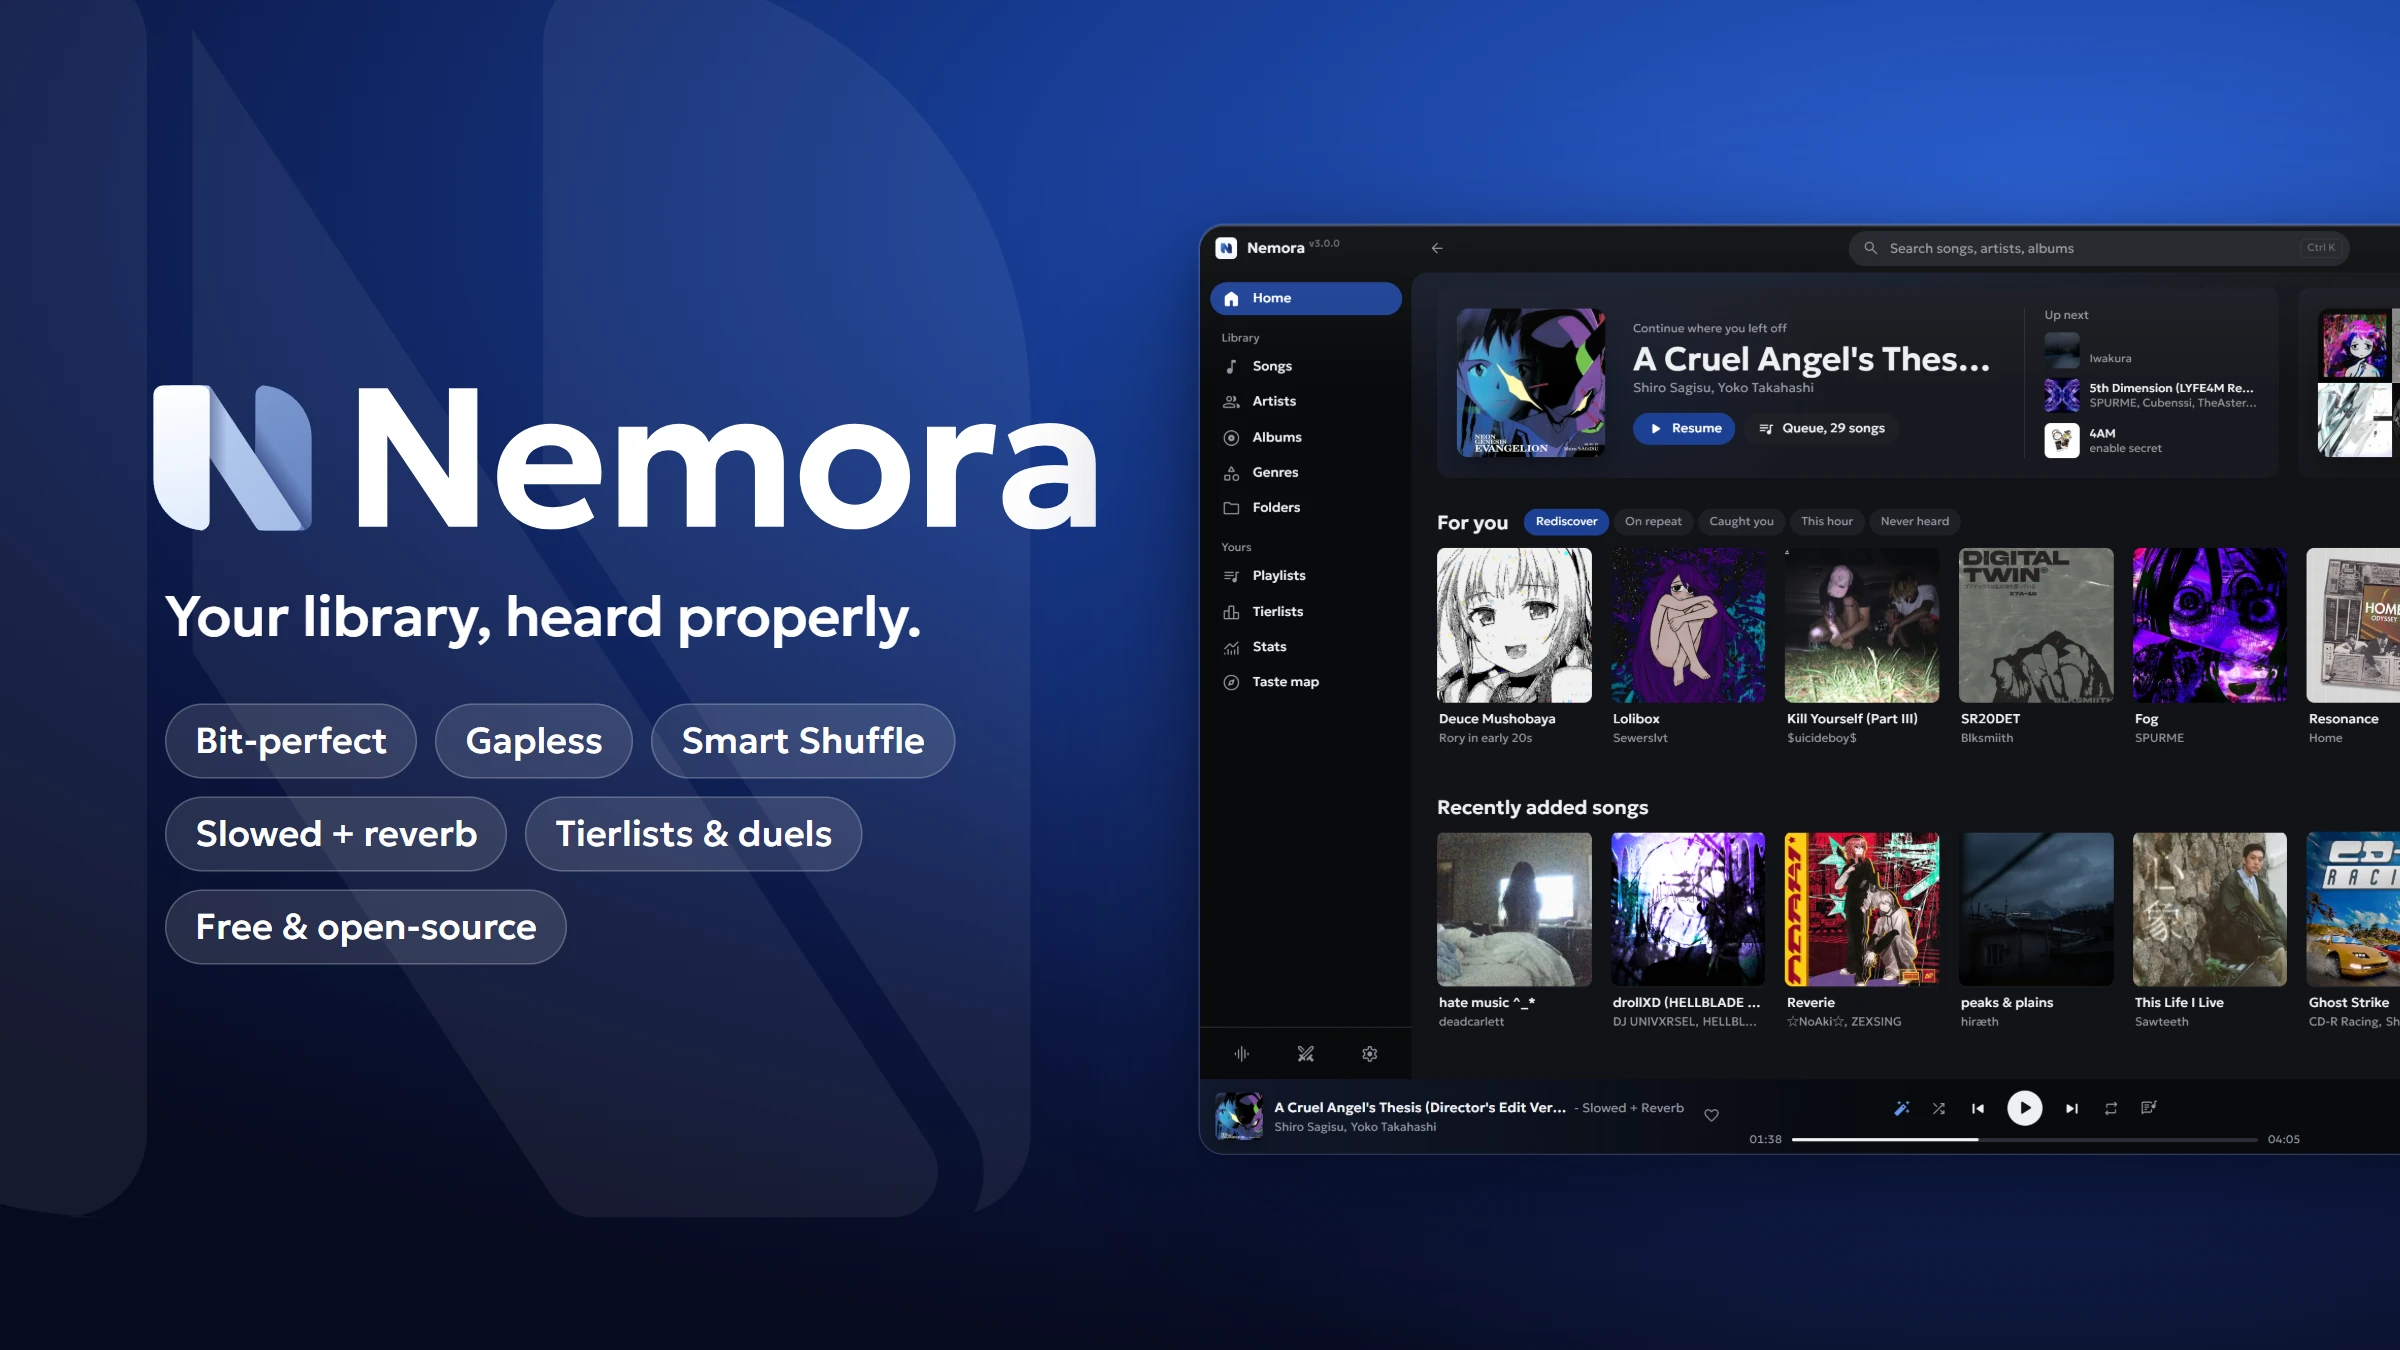
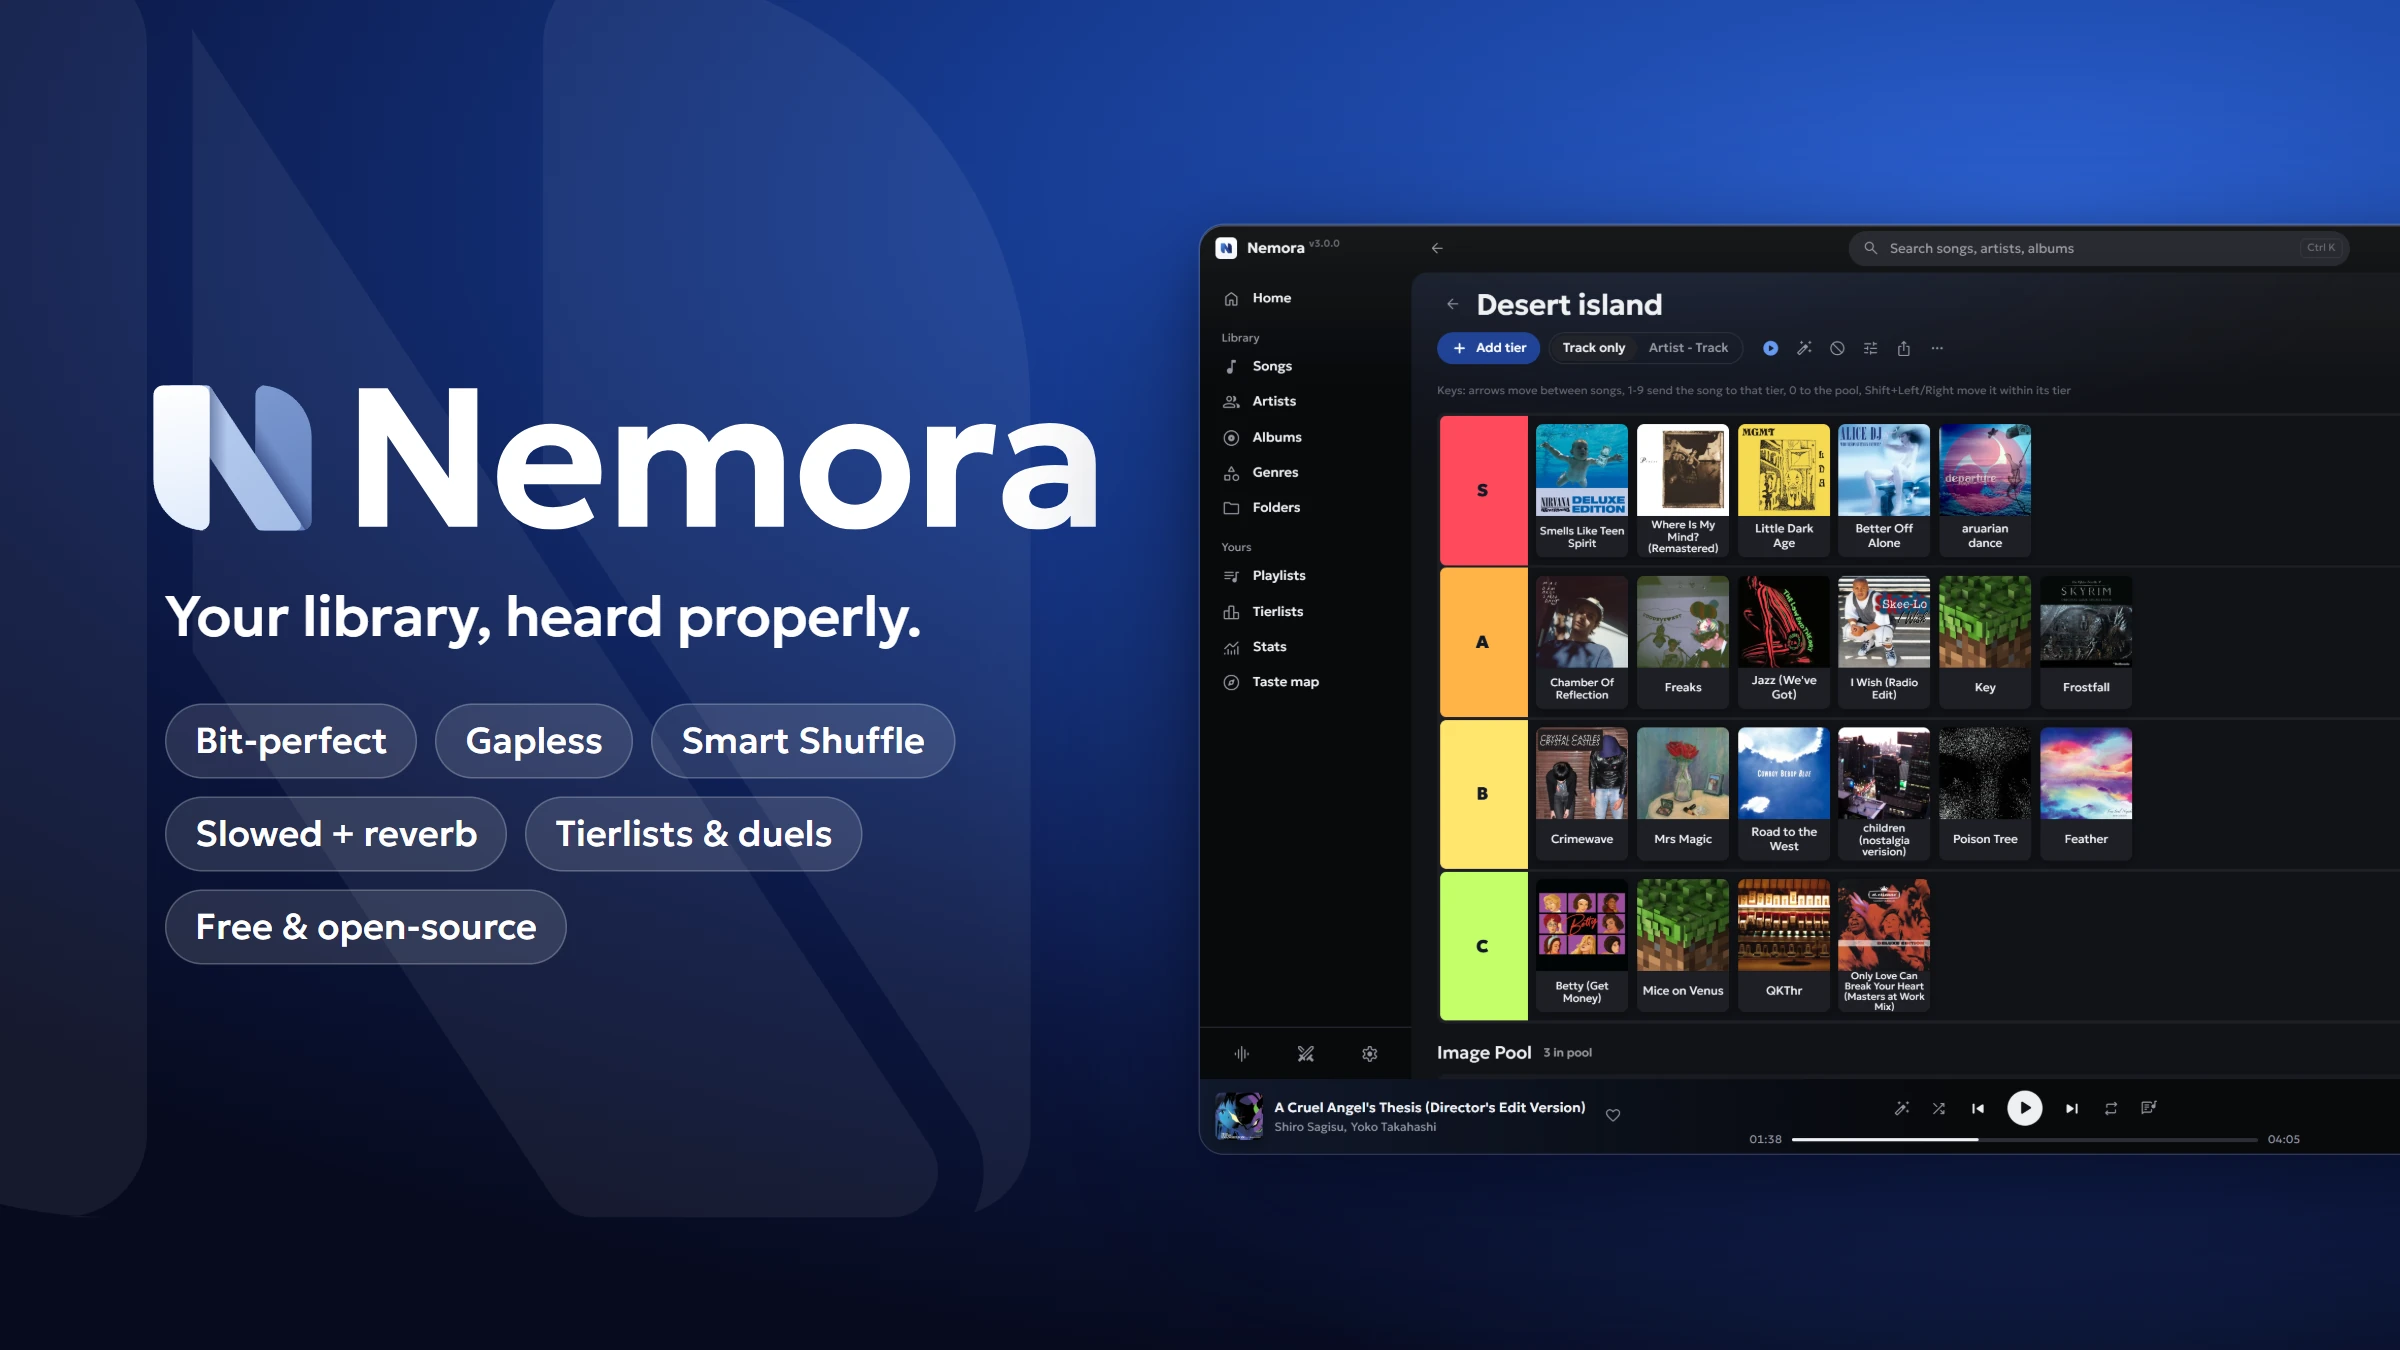
README pictures without songs the README should not show: the stand has README shots (r-*) of the real app with a sample tierlist of well-known songs (Desert island), a duel of two of them, an English search with a typo, and the Slowed & reverb panel over that tierlist; the hero and the cards use th

Changed region(s): [[0.5, 0.1867, 1.0, 0.8089], [0.9688, 0.2178, 1.0, 0.3422], [0.6562, 0.8089, 0.6875, 0.84]]

diff --git a/tools/readme/compose.py b/tools/readme/compose.py
@@ -35,11 +35,11 @@ CARDS = [
          title="Smart Shuffle<br>that explains itself",
          text="It leans toward what you rate and how you listen, shows why each song comes next, and lets you steer it for the session."),
     dict(key="tierlists", bg="dawn", side="right",
-         shots=[("31-tierlist-editor", "dark", None, (60, 190, 840))],
+         shots=[("r-tierlist", "light", None, (60, 190, 840))],
          title="Rank your music<br>in tierlists",
          text="Drag songs into tiers, play a tierlist like a playlist, export it as an image. Your tiers feed Smart Shuffle."),
     dict(key="duels", bg="deep", side="left",
-         shots=[("34-duel", "dark", (421, 122, 1179, 778), (760, 120, 600)), ("33-songguessr", "dark", (543, 86, 1057, 814), (1150, 250, 380))],
+         shots=[("r-duel", "dark", (421, 122, 1179, 778), (760, 120, 600)), ("33-songguessr", "dark", (543, 86, 1057, 814), (1150, 250, 380))],
          title="Duels and<br>Song Guessr",
          text="A little bit of fun with your own library. Pick the better of two songs and an ELO rating sorts it by what you really choose. Or name a track from a tenth of a second."),
     dict(key="stats", bg="sky", side="right",
@@ -51,11 +51,11 @@ CARDS = [
          title="Your taste,<br>as a map",
          text="The whole library laid out by how you listen: islands of songs that belong together. Pick an area and play it."),
     dict(key="sound", bg="night", side="right",
-         shots=[("36k-sound-panel", "dark", None, (40, 170, 780)), ("36k-sound-panel", "dark", (1065, 363, 1398, 836), (560, 240, 340))],
+         shots=[("r-sound", "dark", None, (40, 170, 780)), ("r-sound", "dark", (1065, 363, 1397, 835), (560, 240, 340))],
          title="Slowed<br>+ reverb",
          text="Speed, pitch and a real reverb in the audio engine. Keep a sound as a version of the song, or switch the song itself to it."),
     dict(key="search", bg="dawn", side="left",
-         shots=[("36s-search-did-you-mean", "dark", (205, 0, 1600, 620), (760, 90, 820)), ("36q-search-in-lyrics", "dark", (624, 2, 1120, 44), (800, 500, 500)), ("36q-search-in-lyrics", "dark", (215, 680, 1600, 812), (720, 570, 820))],
+         shots=[("r-search", "dark", (205, 0, 1600, 620), (760, 90, 820)), ("36q-search-in-lyrics", "dark", (624, 2, 1120, 44), (800, 500, 500)), ("36q-search-in-lyrics", "dark", (215, 680, 1600, 812), (720, 570, 820))],
          title="Search that<br>gets you",
          text="Typos, any word order, Japanese readings, a wrong keyboard layout, even a line of the lyrics: it still finds the song."),
     dict(key="fullscreen", bg="ink", side="right",
@@ -67,11 +67,11 @@ CARDS = [
          title="Ask an AI<br>about your music",
          text="Connect Claude or another agent over MCP: it reads your library and stats, builds playlists, runs the queue. You choose how much it may do."),
     dict(key="yours", bg="sky", side="right",
-         shots=[("36m-home-today", "dark", None, (60, 340, 700)), ("37-accent-picker", "light", (458, 65, 1561, 520), (200, 120, 680))],
+         shots=[("r-search", "dark", None, (60, 340, 700)), ("37-accent-picker", "light", (458, 65, 1561, 520), (200, 120, 680))],
          title="Make it<br>yours",
          text="Light and dark themes, eight accent colours, five frame shades, thirteen languages."),
 ]
-HERO = dict(key="hero", shots=[("36m-home-today", "dark", None, (800, 150, 1100))])
+HERO = dict(key="hero", shots=[("r-tierlist", "dark", None, (800, 150, 1100))])
 # Order in the README; the cards alternate sides from the first, mirrored where they were drawn the other way.
 ORDER = ["tierlists", "sound", "shuffle", "stats", "search", "duels", "tastemap", "fullscreen", "agents", "yours"]
 
